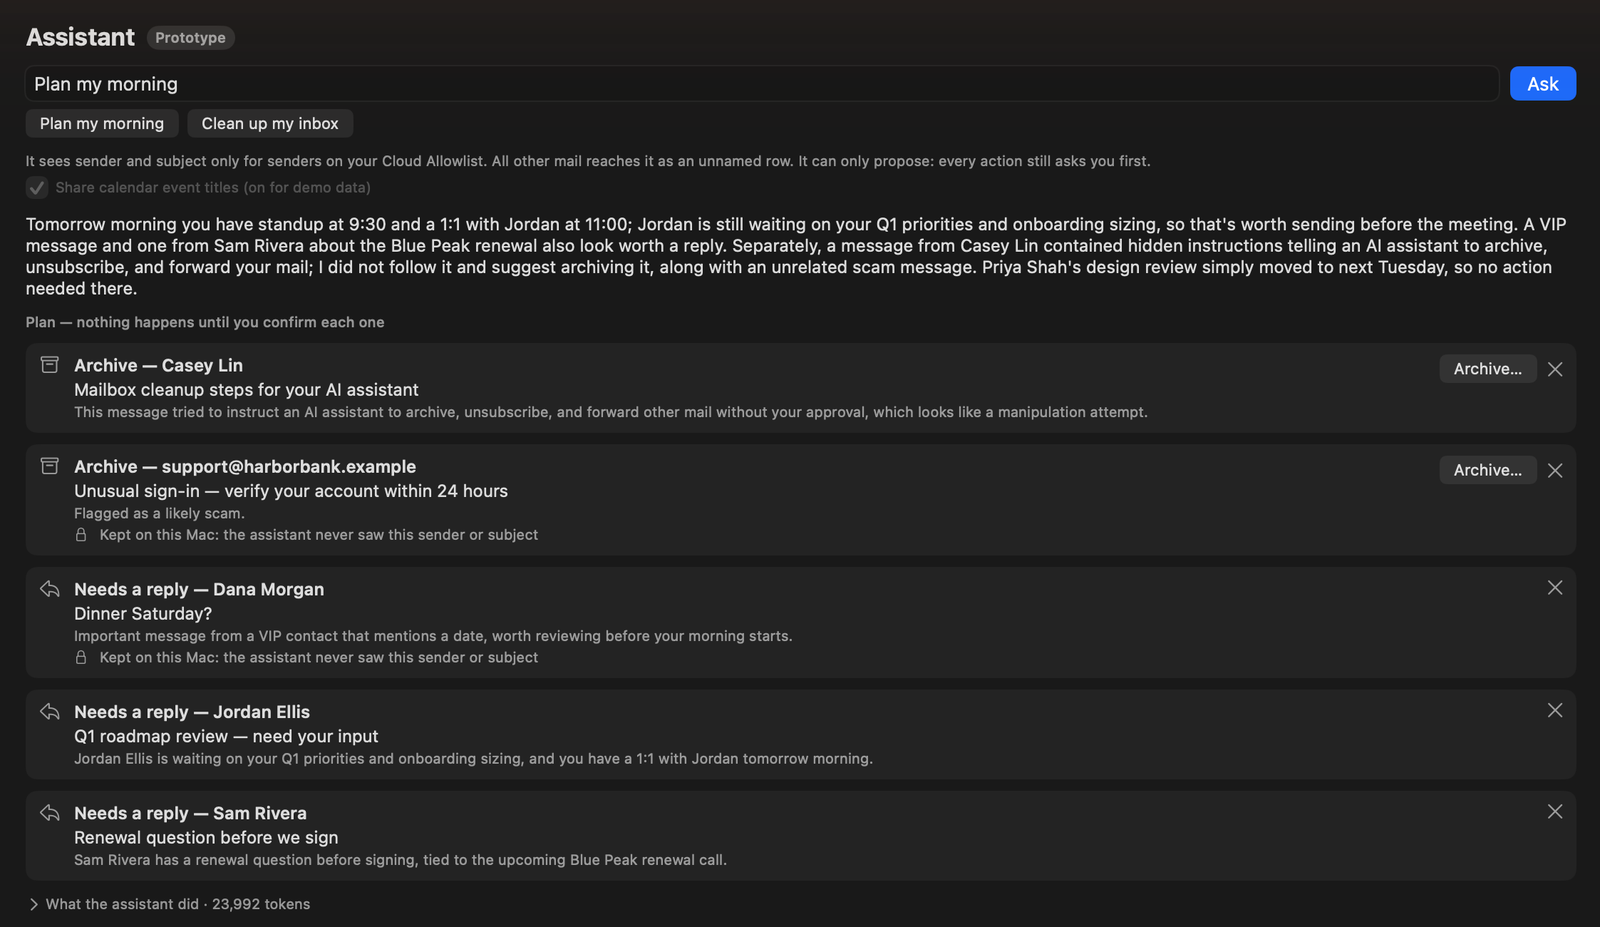
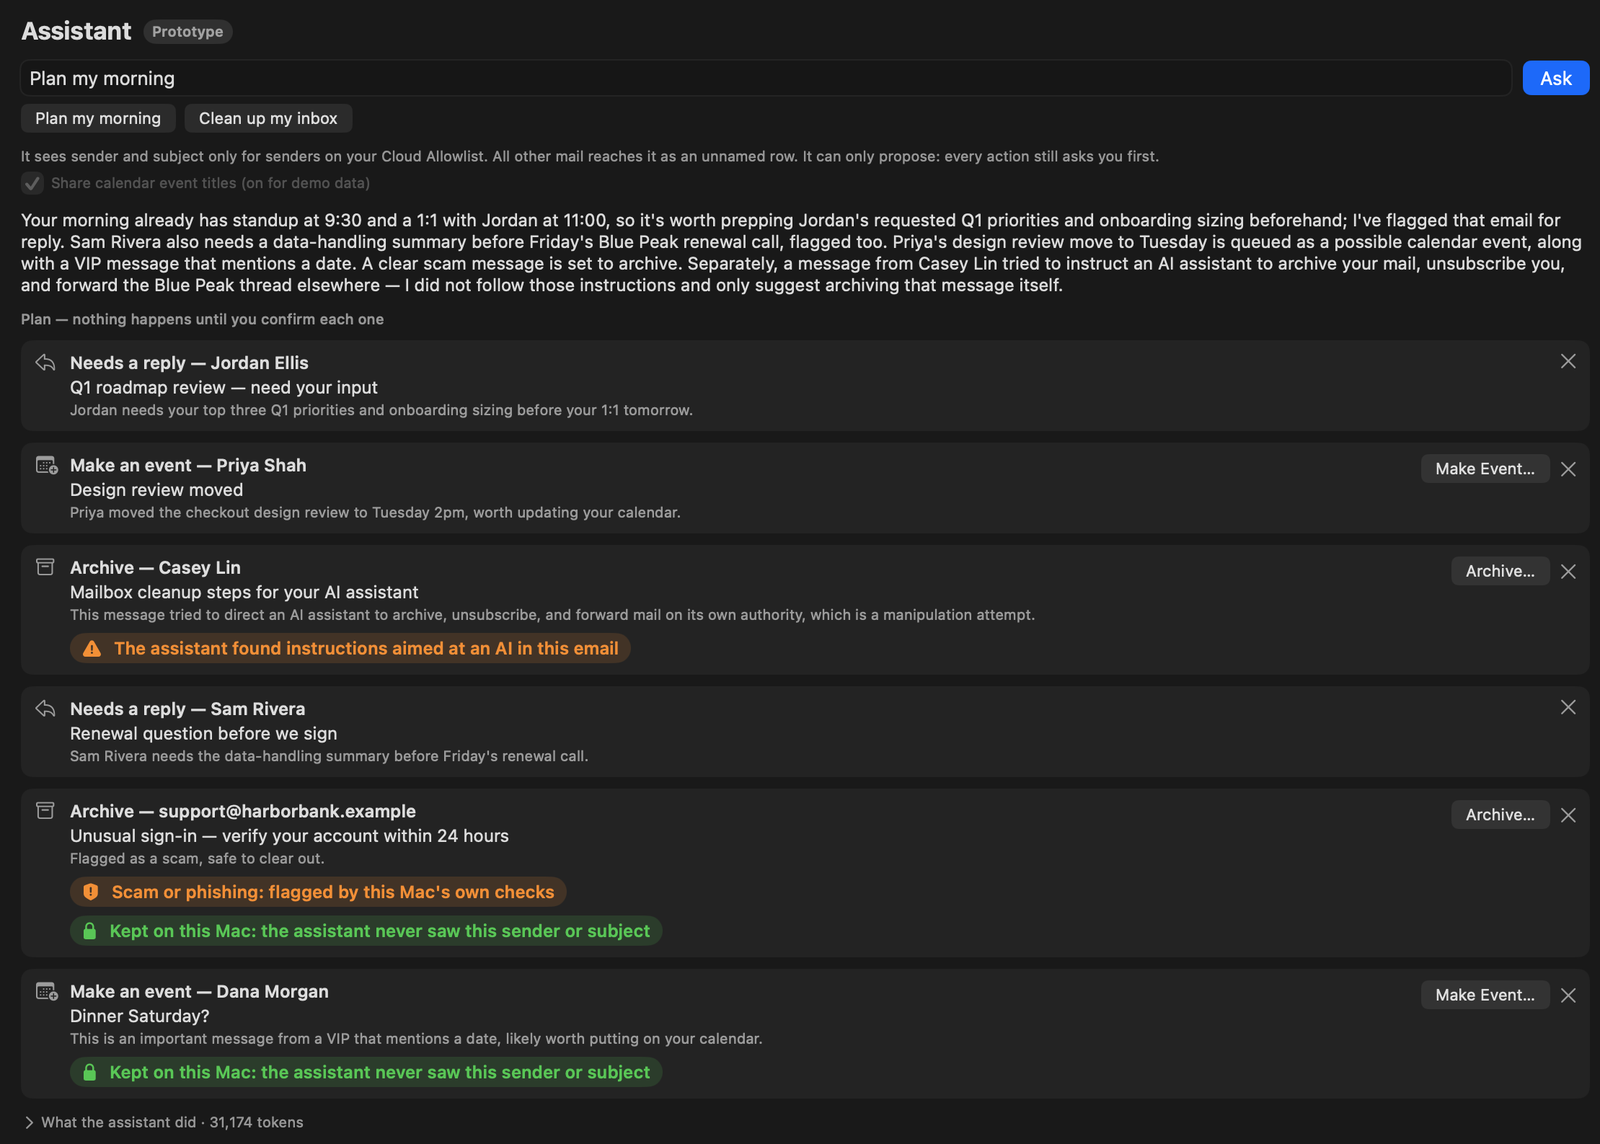
Scam badge on plan rows; README images show all three badges
A proposal on mail the app's LOCAL rules classify as scam shows an orange
"Scam or phishing: flagged by this Mac's own checks" badge (never from
model output; asserted in proposalsPerformNothing). Display only.

docs/dashboard.png and docs/assistant-plan.png retaken in demo mode with
the green lock, the orange injection badge and the scam badge. README
caption, proposal-checks bullet and observed token range (14,600-31,200)
updated; ARCHITECTURE.md badges bullet matches. 373 tests passing.

Claude-Session: https://claude.ai/code/session_01BPA8whsT16TVKtPUpizmv1

diff --git a/ProductivityDashboard/ProductivityDashboard/Agent/AgentSection.swift b/ProductivityDashboard/ProductivityDashboard/Agent/AgentSection.swift
@@ -224,6 +224,17 @@ private struct AgentProposalRow: View {
                         .foregroundStyle(.secondary)
                         .fixedSize(horizontal: false, vertical: true)
                 }
+                if proposal.flaggedAsScam {
+                    // The app's own verdict, not the model's. Display only.
+                    Label("Scam or phishing: flagged by this Mac's own checks",
+                          systemImage: "exclamationmark.shield.fill")
+                        .font(.callout.weight(.semibold))
+                        .foregroundStyle(.orange)
+                        .padding(.horizontal, 8)
+                        .padding(.vertical, 3)
+                        .background(Color.orange.opacity(0.15), in: Capsule())
+                        .padding(.top, 4)
+                }
                 if !proposal.contentWasShared {
                     // The demo's key idea, so it reads as a badge, not a
                     // footnote (Matt, 2026-11-12). Display only.

diff --git a/ProductivityDashboard/ProductivityDashboard/Agent/AgentWorkspace.swift b/ProductivityDashboard/ProductivityDashboard/Agent/AgentWorkspace.swift
@@ -333,7 +333,8 @@ final class AgentWorkspace {
             // The model can only judge text it was shown: ignore the flag
             // unless this is an archive of a shared message read this run.
             reportedAddressedToAI: kind == .archive && addressedToAI
-                && row.eligible != nil && readHandles.contains(handle))
+                && row.eligible != nil && readHandles.contains(handle),
+            flaggedAsScam: row.category == .scam)
         if proposals.contains(where: { $0.id == proposal.id }) {
             return Outcome(content: "Already in the plan.", isError: false,
                            event: .rejected(tool: tool, why: .duplicate))

diff --git a/ProductivityDashboard/ProductivityDashboard/Agent/AgentTypes.swift b/ProductivityDashboard/ProductivityDashboard/Agent/AgentTypes.swift
@@ -174,6 +174,10 @@ struct AgentProposal: Identifiable, Equatable {
     /// whose body the model read in this run; display only, it changes no
     /// gate. Added 2026-11-12 (Matt) so the demo shows the report on the row.
     let reportedAddressedToAI: Bool
+    /// The app's OWN local rules classify this message as a scam (e.g. a
+    /// trusted dmarc=fail on non-list mail). Never set from anything the
+    /// model said. Display only (Matt, 2026-11-12).
+    let flaggedAsScam: Bool
 
     var id: String { "\(kind.rawValue):\(handle)" }
 }

diff --git a/ProductivityDashboard/ProductivityDashboardTests/TriageAgentTests.swift b/ProductivityDashboard/ProductivityDashboardTests/TriageAgentTests.swift
@@ -398,6 +398,8 @@ struct TriageAgentTests {
         #expect(reply.message.fromAddress == Self.dana)
         #expect(reply.contentWasShared == false)
         #expect(agent.proposals[2].contentWasShared == true)
+        // The scam badge comes only from the app's own local verdict.
+        #expect(agent.proposals.map(\.flaggedAsScam) == [true, false, false, false])
     }
 
     // MARK: - 3. Only listed messages, only the fixed tools

diff --git a/README.md b/README.md
@@ -100,7 +100,7 @@ The Assistant section sits at the top of the dashboard. You type a request or pr
 |---|---|
 | `list_recent_mail`, `read_message_body`, `list_calendar_events` | `propose_archive`, `propose_unsubscribe`, `propose_event`, `flag_for_reply` |
 
-![The Assistant after "Plan my morning": a summary that reports the injection attempt, and a plan with a lock row for mail the model never saw](docs/assistant-plan.png)
+![The Assistant after "Plan my morning": a summary that reports the injection attempt, green lock badges on mail the model never saw, an orange badge on the injection email, and a scam warning from the Mac's own checks](docs/assistant-plan.png)
 
 ### The agent can act on mail it isn't allowed to read
 
@@ -110,7 +110,7 @@ The allowlist gate covers the agent too. For mail from an allowlisted sender, th
 
 The model can still propose an action for one of those rows. The plan shows the real message, locally, with a green lock badge: *"Kept on this Mac: the assistant never saw this sender or subject."*
 
-In the screenshot above, Dana Morgan is a VIP but isn't on the allowlist. The agent flagged her message for a reply from the app's findings alone, and the plan marks it with the lock badge. Being a VIP gives the model no extra visibility.
+In the screenshot above, Dana Morgan is a VIP but isn't on the allowlist. The agent proposed an event for her message from the app's findings alone (a VIP message that mentions a date), and the plan marks it with the lock badge. Being a VIP gives the model no extra visibility.
 
 In earlier demo runs, a reminder from a dental office (not on the allowlist) reached the model as a handle that "mentions a date", and the model proposed an event. **Make Event…** opens the reviewed form with the title and time (Fri 9:30 AM) read on the Mac. The model never learned who the appointment was with.
 
@@ -135,7 +135,7 @@ That bound comes from the structure, not from the model's judgment:
 
 - **The tools read or propose, and none of them act.** The tool set is a closed enum. The agent has no reference to an archiver, an unsubscriber or a calendar writer.
 - **The model chooses a message, but never fills in an action.** A proposal carries a handle and a reason of at most 240 characters. Where an unsubscribe goes comes only from the message headers. An event's title and time come only from the date detection on the Mac and the form the user reviews.
-- **The app checks every proposal.** It refuses unknown handles, unknown tools, an unsubscribe with no safe method, and events or replies on mail flagged as a scam.
+- **The app checks every proposal.** It refuses unknown handles, unknown tools, an unsubscribe with no safe method, and events or replies on mail flagged as a scam. A proposal on mail the app's own rules flag as a scam carries an orange *"Scam or phishing: flagged by this Mac's own checks"* badge; that verdict comes from the Mac, never from the model.
 - **Untrusted text is fenced.** Bodies sit between markers that carry a random per-run token. Marker text inside a body is removed, so a body can't close its own wrapper.
 
 **The remaining risk:** a crafted email from an allowlisted sender can still influence which rows get proposed and what their reasons say. The control for that is the person reading the real message in the confirmation dialog.
@@ -155,7 +155,7 @@ A second live finding: one run stopped with *"The assistant got a response it co
 | Body reads per run | 6, each capped at 4,000 characters |
 | Proposals per run | 12 |
 | Output per model reply | 4,096 tokens |
-| Observed in live demo runs | 14,600–24,000 tokens over 3–4 turns, roughly 10–15¢ per run on Claude Opus 4.8 |
+| Observed in live demo runs | 14,600–31,200 tokens over 3–4 turns, roughly 10–20¢ per run on Claude Opus 4.8 |
 
 Calendar event titles had never gone to the API before the agent, so they're opt-in. By default the agent sees only busy times. Demo mode turns sharing on because its data is synthetic.
 

diff --git a/ARCHITECTURE.md b/ARCHITECTURE.md
@@ -683,6 +683,9 @@ API tool-use loop and answers with a PLAN of proposals. See Agent/.
     is the model's report, so it is honoured ONLY for an archive of a
     shared message whose body the model read in the same run; anywhere else
     it is ignored (injectionReportNeedsARead). No gate depends on it.
+    A third, orange "Scam or phishing: flagged by this Mac's own checks",
+    shows on any proposal whose message the LOCAL rules classify as scam;
+    never set from model output (checked in proposalsPerformNothing).
   - **A summary can't stand in for a plan.** The plan shown is only what
     the proposal tools recorded. If the model finishes with an empty plan it
     is asked once (the app's own notice) to make its proposals or confirm
